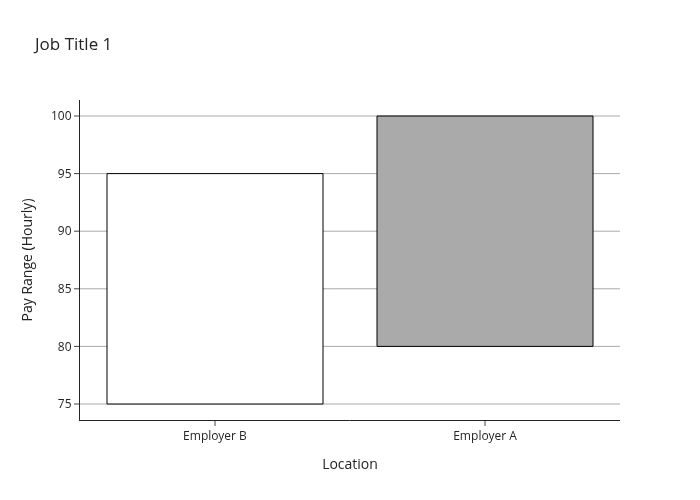
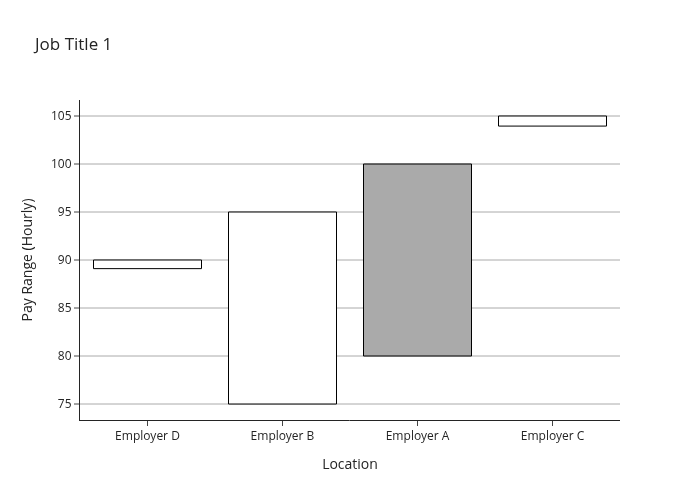
Add 3 more example employers to sample table and regenerate PNGs

diff --git a/README.md b/README.md
@@ -43,7 +43,7 @@ Compgrapher (Compensation Grapher) is a tool for generating floating bar graphs 
 
    Run the script with the sample data to generate PNG graphs:
    ```bash
-   python3 floating_bar_graphs.py --input input/csv/sample_table.csv --client "Employer A" --fy "FY23" --output png
+   python3 floating_bar_graphs.py --input input/csv/sample_table.csv --output png
    ```
 
    This will create PNG files in `output/png/` showing floating bar graphs for each position.
